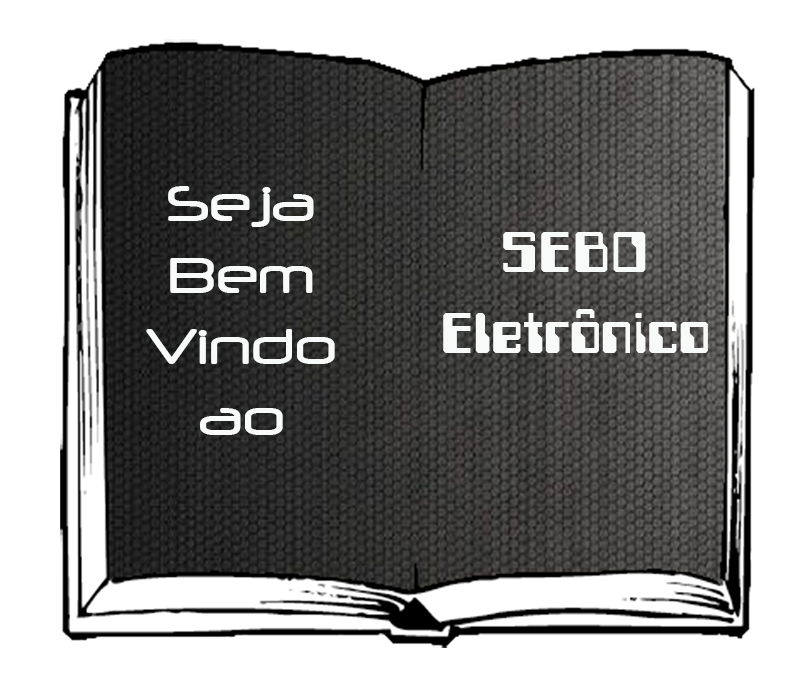
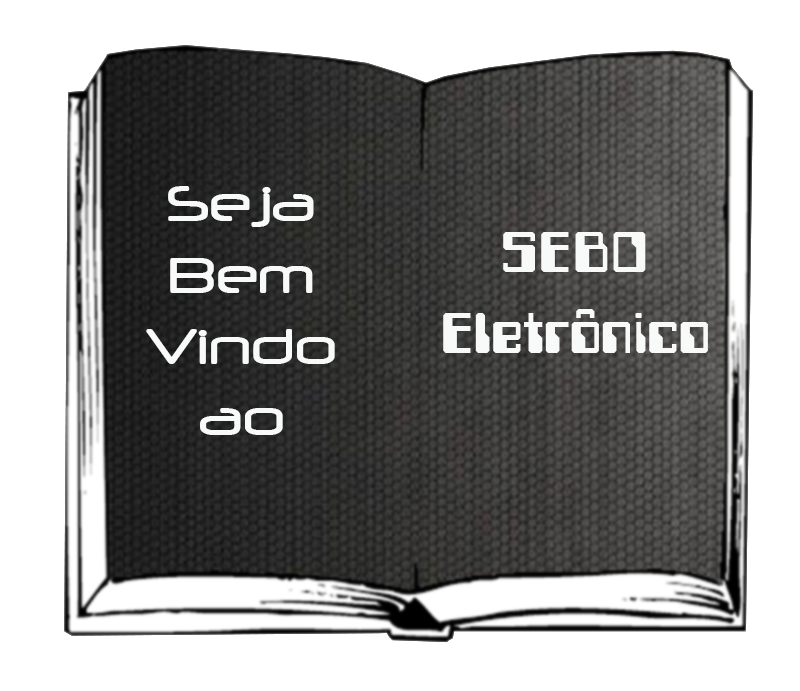
Alterei o tamanho da imagem do livro

diff --git a/sebo/css/style2.css b/sebo/css/style2.css
@@ -34,9 +34,9 @@
         }
 
 		.img2{     
-            margin-left: 410px;
-			width: 500px;
-			height:390px;
+            margin-left: 450px;
+			width: 400px;
+			height:350px;
         }
 		
 	table{
